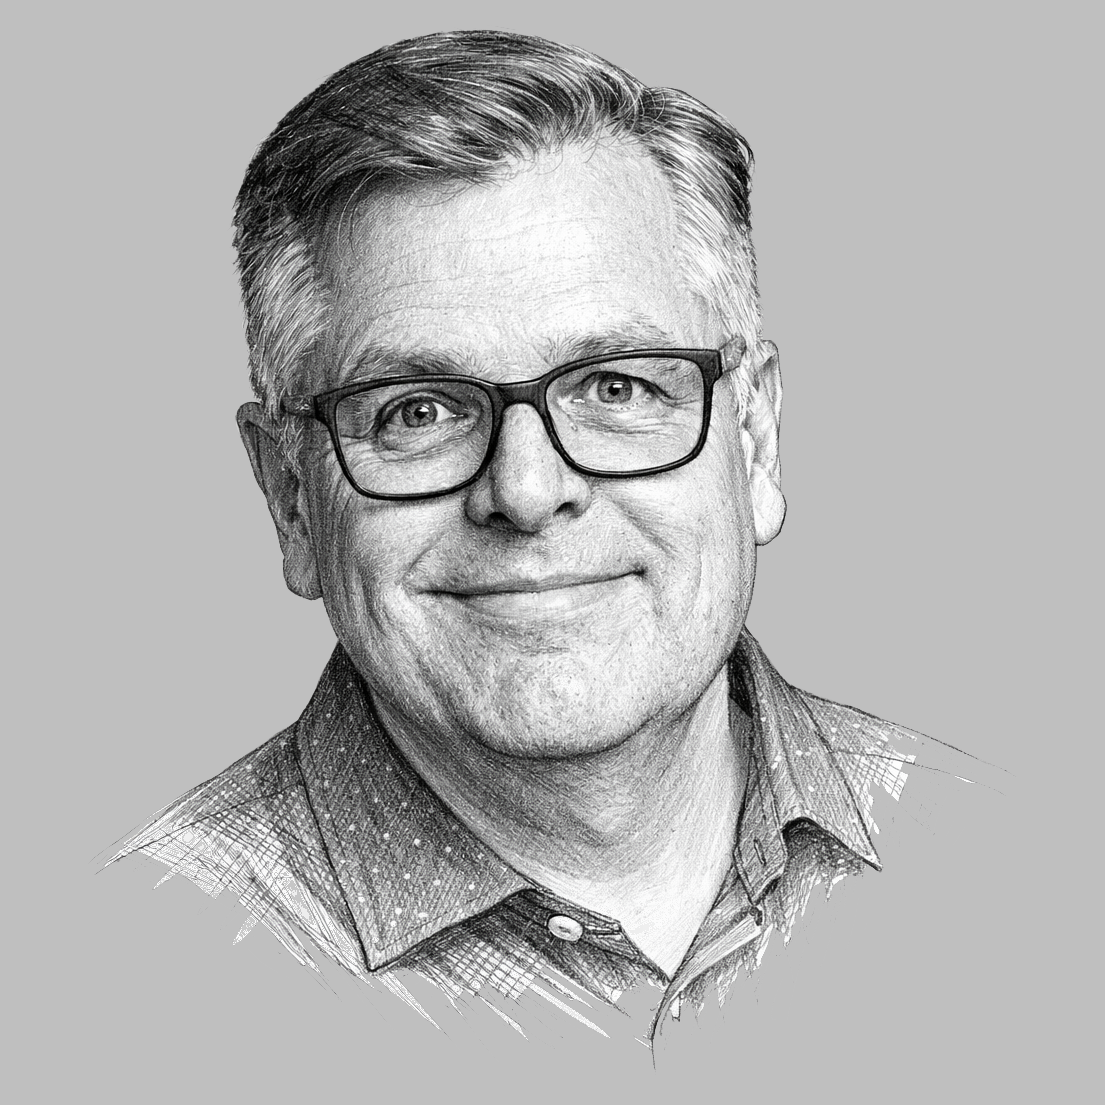
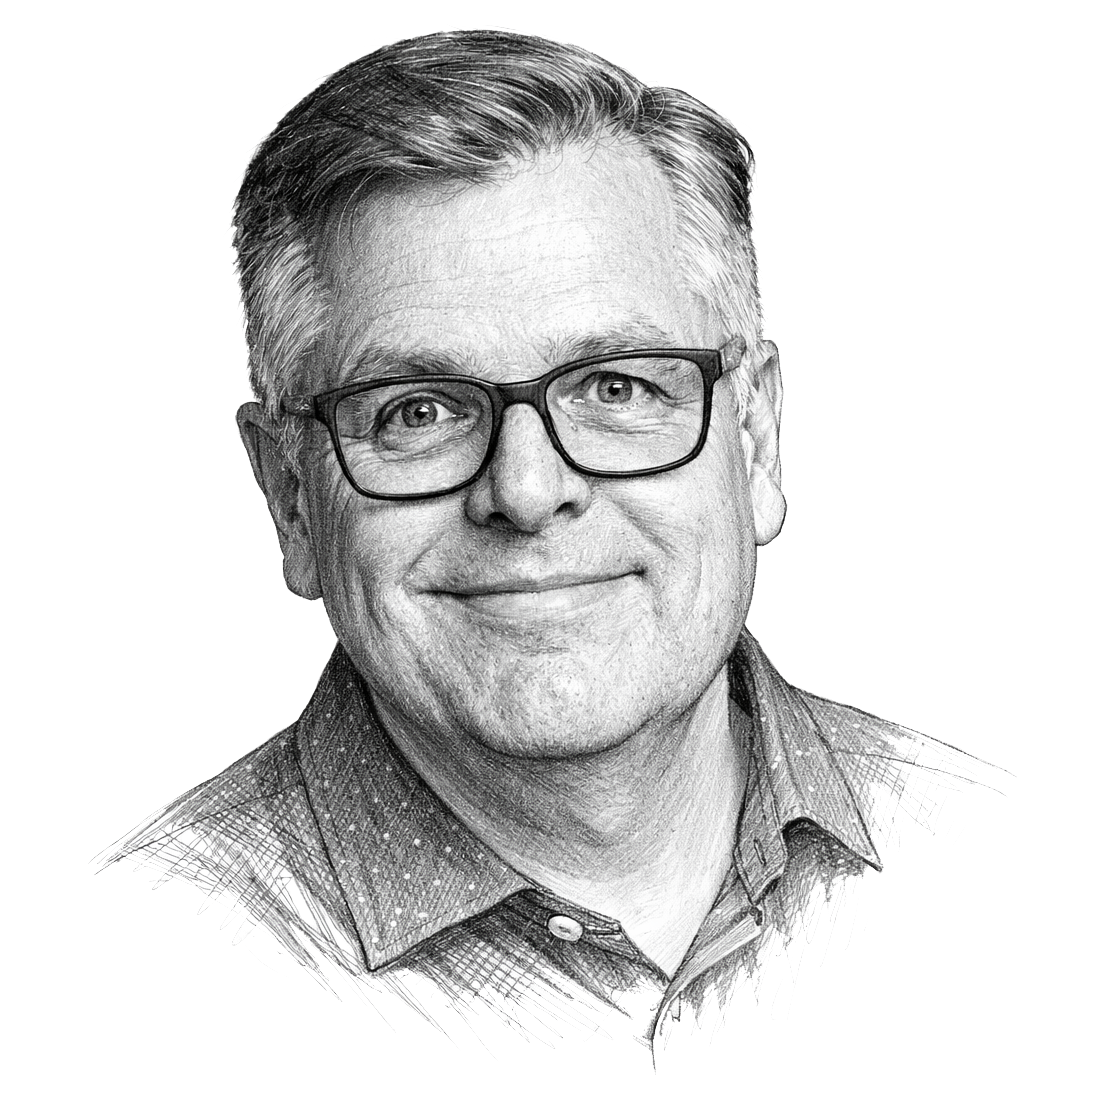
image cutout changed

diff --git a/styles.css b/styles.css
@@ -134,7 +134,7 @@ a[data-tooltip]:focus-visible::before {
 
 .hero {
   display: grid;
-  grid-template-columns: minmax(0, 1fr) minmax(260px, 0.44fr);
+  grid-template-columns: minmax(0, 1fr) minmax(280px, 0.58fr);
   gap: clamp(28px, 5vw, 64px);
   align-items: stretch;
   min-height: 680px;
@@ -243,16 +243,17 @@ h1 {
 }
 
 .portrait {
-  align-self: end;
-  justify-self: end;
+  align-self: center;
+  justify-self: center;
+  width: 100%;
+  max-width: min(42vw, 560px);
   margin: 0;
 }
 
 .portrait img {
   width: 100%;
-  max-width: min(32vw, 390px);
   height: auto;
-  margin-inline: auto 0;
+  margin-inline: auto;
 }
 
 .intro {
@@ -491,7 +492,7 @@ h3 {
   }
 
   .portrait img {
-    max-width: min(76vw, 320px);
+    max-width: min(92vw, 470px);
   }
 
   .hero-actions,

diff --git a/index.html b/index.html
@@ -18,7 +18,7 @@
     <meta property="og:image" content="https://matthewgoldsbrough.com/assets/matthew-goldsbrough-ned-sketch-transparent.png">
     <meta name="twitter:card" content="summary_large_image">
     <link rel="canonical" href="https://matthewgoldsbrough.com/">
-    <link rel="stylesheet" href="styles.css">
+    <link rel="stylesheet" href="styles.css?v=20260510-portrait">
   </head>
   <body>
     <header class="site-header" aria-label="Site header">
